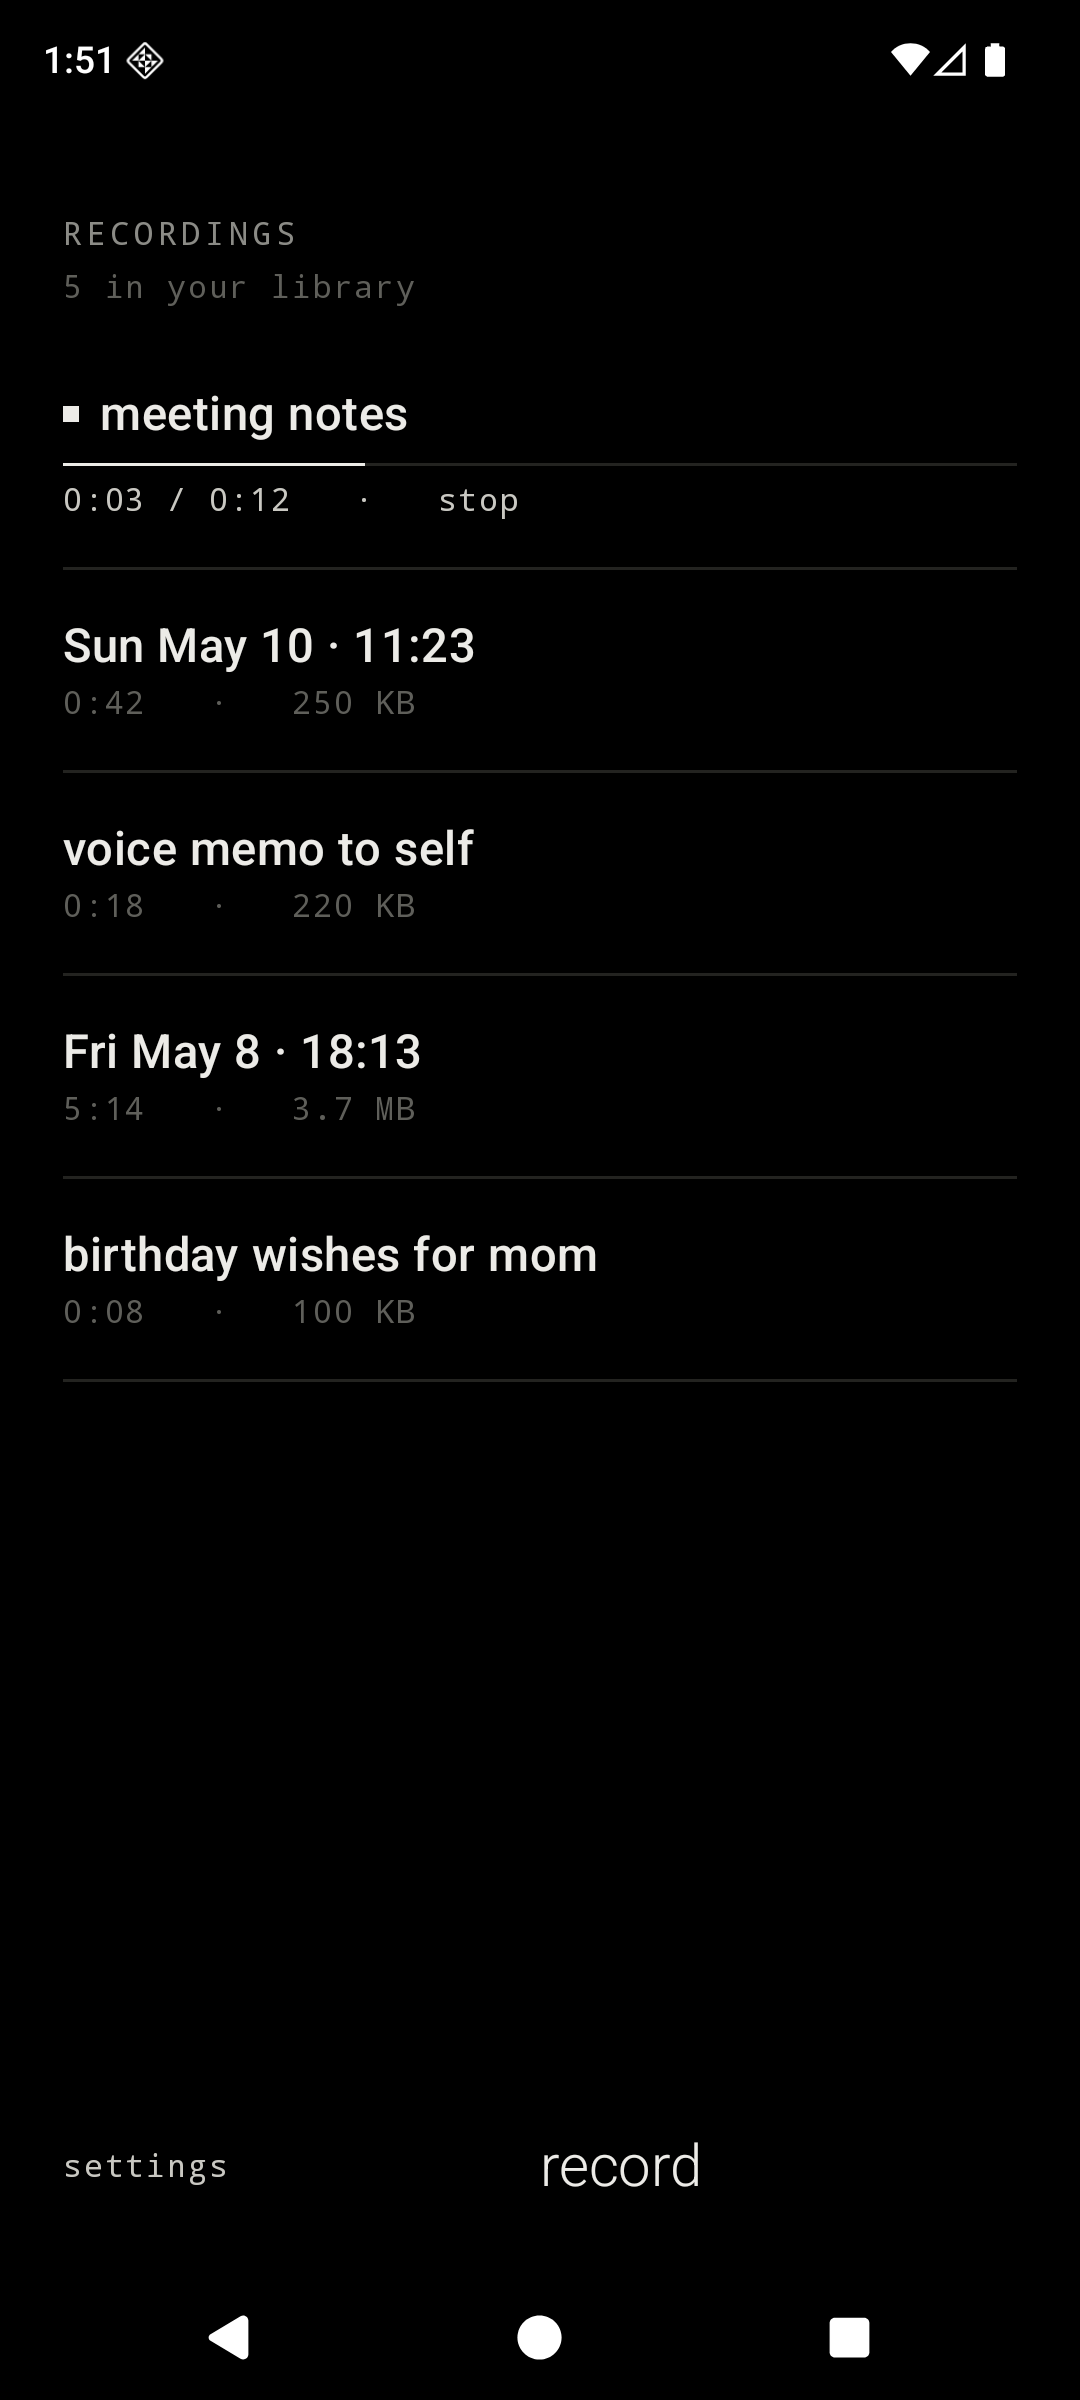
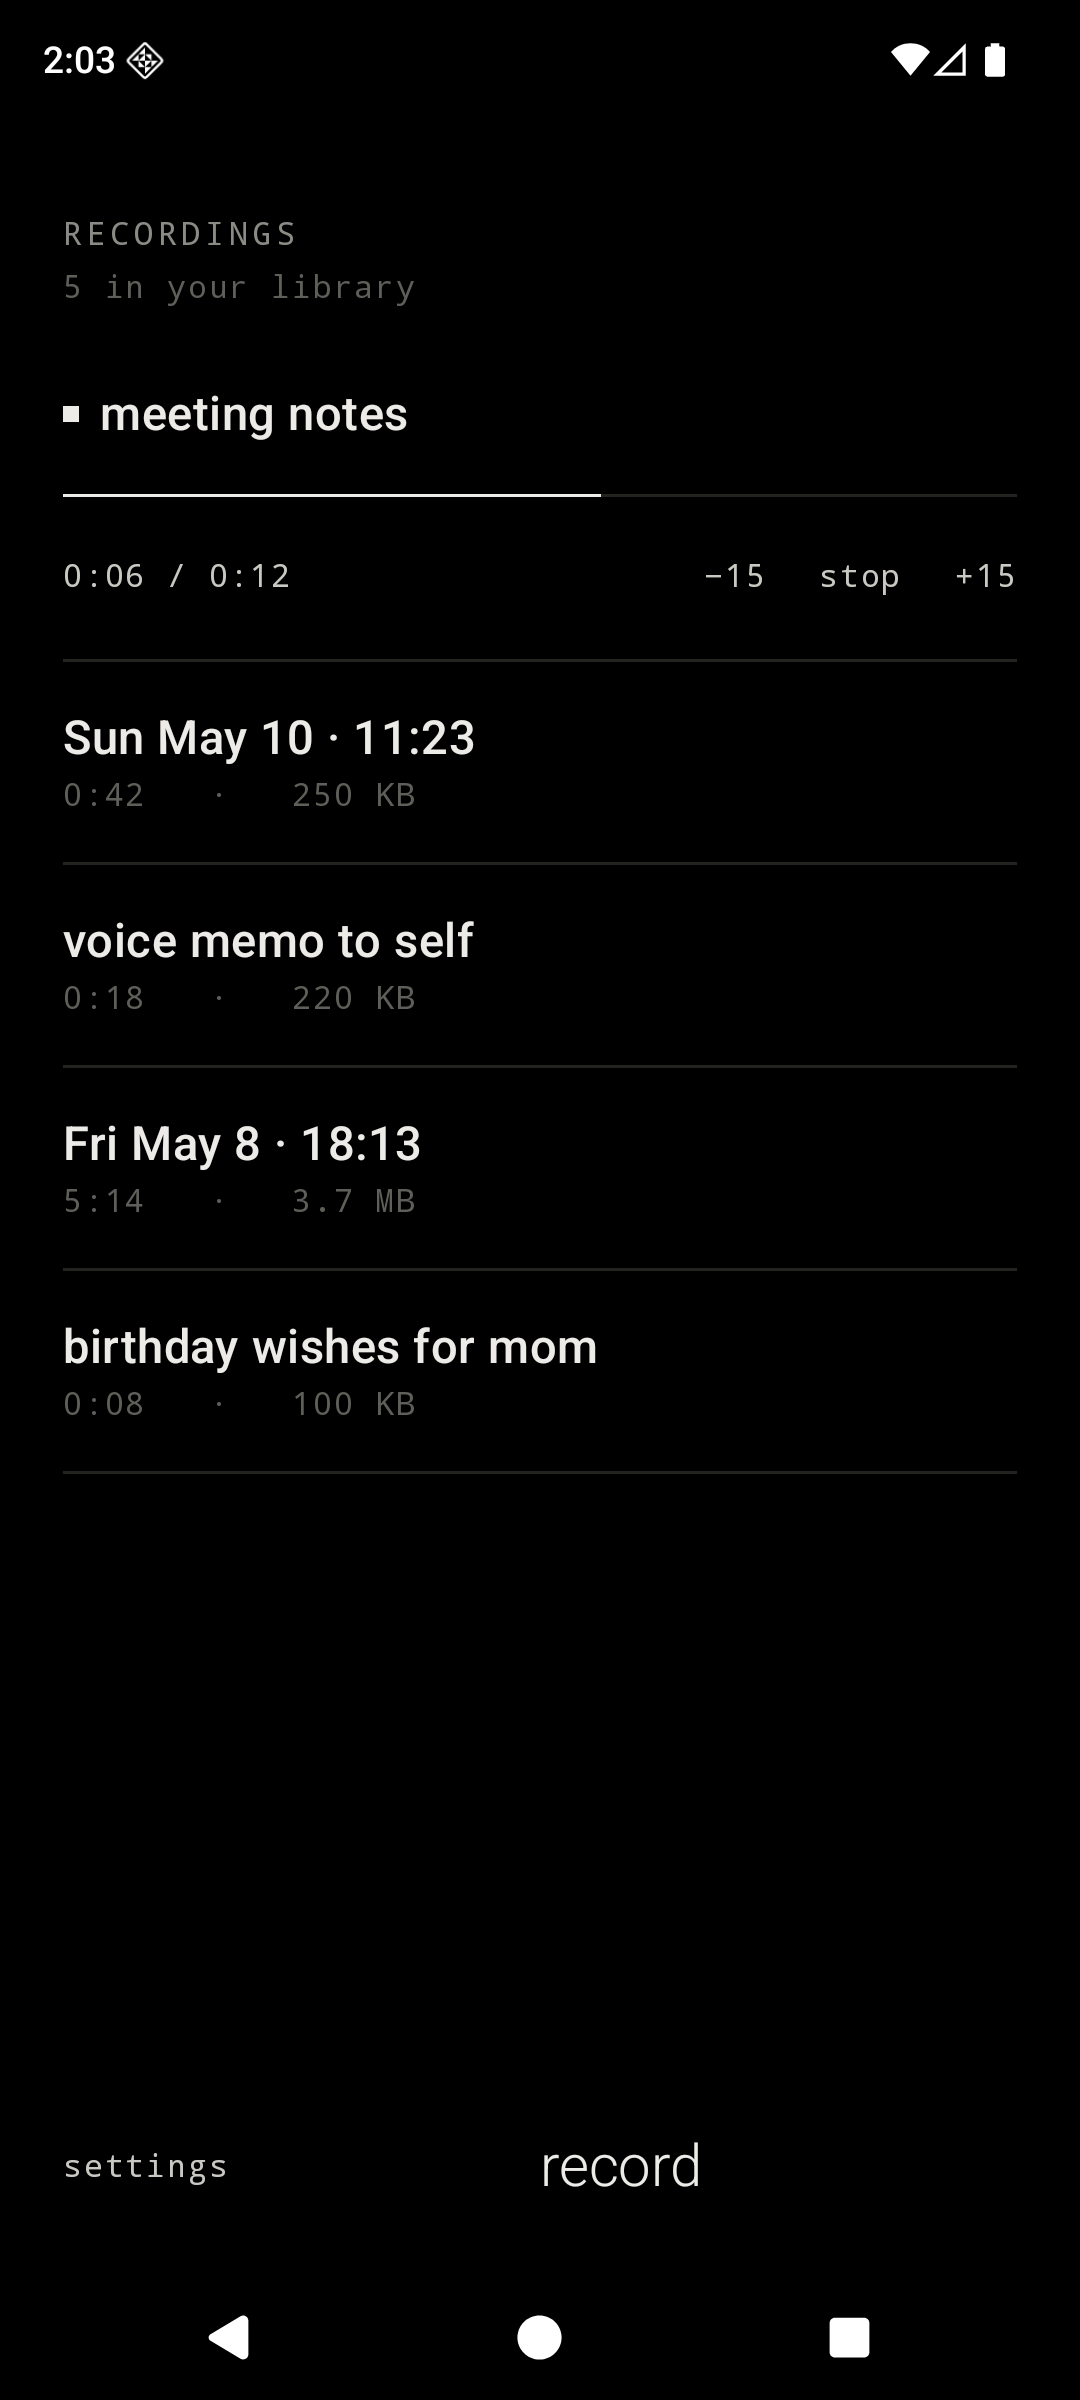
Expand scrubber hit area and add ±15s skip verbs
The 1dp hairline scrubber was its own touch target — too small to land
reliably. Wrap it in a 32dp transparent box that owns the pointerInput,
so tap-to-seek and drag-to-scrub work without sub-pixel precision.

Add −15 / stop / +15 verbs on the playing row's bottom line for quick
scrubbing without the drag. The verbs are pure compositions of the
existing seek and stop callbacks; no new PlayerController surface.

diff --git a/app/src/main/java/dev/chuds/stillvoice/ui/list/RecordingsListScreen.kt b/app/src/main/java/dev/chuds/stillvoice/ui/list/RecordingsListScreen.kt
@@ -108,6 +108,7 @@ fun RecordingsListScreen(
                                 actionTarget = recording.id
                             },
                             onSeek = { fraction -> onSeek(recording, fraction) },
+                            onStop = onStopPlayback,
                         )
                         StillDivider()
                     }
@@ -210,6 +211,7 @@ private fun RecordingRow(
     onTap: () -> Unit,
     onLongPress: () -> Unit,
     onSeek: (Float) -> Unit,
+    onStop: () -> Unit,
 ) {
     val interactionSource = remember { MutableInteractionSource() }
     Column(
@@ -243,7 +245,7 @@ private fun RecordingRow(
         }
 
         if (isPlaying) {
-            Spacer(Modifier.height(8.dp))
+            Spacer(Modifier.height(4.dp))
             val total = playback.durationMs.takeIf { it > 0 }
                 ?: recording.durationMs.takeIf { it > 0 }
                 ?: 1L
@@ -253,12 +255,41 @@ private fun RecordingRow(
                 progress = progress,
                 onSeek = onSeek,
             )
-            Spacer(Modifier.height(6.dp))
-            Text(
-                text = "${formatMmSs(playback.positionMs)} / ${formatMmSs(total)}   ·   stop",
-                style = StillTypography.Caption,
-                color = StillColors.MutedWhite,
-            )
+            Spacer(Modifier.height(2.dp))
+            Row(verticalAlignment = Alignment.CenterVertically) {
+                Text(
+                    text = "${formatMmSs(playback.positionMs)} / ${formatMmSs(total)}",
+                    style = StillTypography.Caption,
+                    color = StillColors.MutedWhite,
+                )
+                Spacer(Modifier.weight(1f))
+                StillVerb(
+                    text = "−15",
+                    onClick = {
+                        val target = (playback.positionMs - 15_000L).coerceAtLeast(0L)
+                        onSeek(target.toFloat() / total.toFloat())
+                    },
+                    style = StillTypography.Caption,
+                    color = StillColors.MutedWhite,
+                )
+                Spacer(Modifier.width(20.dp))
+                StillVerb(
+                    text = "stop",
+                    onClick = onStop,
+                    style = StillTypography.Caption,
+                    color = StillColors.MutedWhite,
+                )
+                Spacer(Modifier.width(20.dp))
+                StillVerb(
+                    text = "+15",
+                    onClick = {
+                        val target = (playback.positionMs + 15_000L).coerceAtMost(total)
+                        onSeek(target.toFloat() / total.toFloat())
+                    },
+                    style = StillTypography.Caption,
+                    color = StillColors.MutedWhite,
+                )
+            }
         } else {
             Spacer(Modifier.height(4.dp))
             Text(

diff --git a/app/src/main/java/dev/chuds/stillvoice/ui/components/StillScrubber.kt b/app/src/main/java/dev/chuds/stillvoice/ui/components/StillScrubber.kt
@@ -23,8 +23,8 @@ import dev.chuds.stillvoice.ui.theme.StillColors
  * 1dp hairline scrubber. SoftWhite filled portion, Hairline runway. No knob,
  * no handle — the filled-vs-unfilled split is the indicator.
  *
- * `progress` is 0..1. `onSeek` is called with the new 0..1 fraction on tap or
- * during a drag.
+ * The visible line is 1dp, but the touch target wraps it in a 32dp tall
+ * transparent box so taps and drags actually land without sub-pixel precision.
  */
 @Composable
 fun StillScrubber(
@@ -38,8 +38,7 @@ fun StillScrubber(
     Box(
         modifier = modifier
             .fillMaxWidth()
-            .height(1.dp)
-            .background(StillColors.Hairline)
+            .height(32.dp)
             .onSizeChanged { widthPx = it.width.toFloat() }
             .pointerInput(Unit) {
                 detectTapGestures { offset ->
@@ -51,13 +50,21 @@ fun StillScrubber(
                     if (widthPx > 0f) onSeek((change.position.x / widthPx).coerceIn(0f, 1f))
                 }
             },
-        contentAlignment = Alignment.CenterStart,
+        contentAlignment = Alignment.Center,
     ) {
         Box(
             modifier = Modifier
-                .fillMaxWidth(clamped)
-                .fillMaxHeight()
-                .background(StillColors.SoftWhite),
-        )
+                .fillMaxWidth()
+                .height(1.dp)
+                .background(StillColors.Hairline),
+            contentAlignment = Alignment.CenterStart,
+        ) {
+            Box(
+                modifier = Modifier
+                    .fillMaxWidth(clamped)
+                    .fillMaxHeight()
+                    .background(StillColors.SoftWhite),
+            )
+        }
     }
 }

diff --git a/README.md b/README.md
@@ -6,7 +6,7 @@
 
 <br>
 
-<img src="docs/screenshots/list.png" width="180" alt="Recordings list — derived label, mm:ss duration and file size per row">&nbsp;<img src="docs/screenshots/recording.png" width="180" alt="Recording — serif mm:ss counter, live size, and a lowercase stop verb">&nbsp;<img src="docs/screenshots/playing.png" width="180" alt="Inline playback — hairline scrubber and 0:43 / 1:12 · stop on a single row">&nbsp;<img src="docs/screenshots/settings.png" width="180" alt="Settings — font preset, format, sample rate, bulk export, privacy posture">
+<img src="docs/screenshots/list.png" width="180" alt="Recordings list — derived label, mm:ss duration and file size per row">&nbsp;<img src="docs/screenshots/recording.png" width="180" alt="Recording — serif mm:ss counter, live size, and a lowercase stop verb">&nbsp;<img src="docs/screenshots/playing.png" width="180" alt="Inline playback — draggable hairline scrubber with −15 / stop / +15 verbs and elapsed-of-total time">&nbsp;<img src="docs/screenshots/settings.png" width="180" alt="Settings — font preset, format, sample rate, bulk export, privacy posture">
 
 <br>
 
@@ -21,7 +21,7 @@ It declares no internet permission. It ships no analytics. It depends on neither
 ## What Still Voice does
 
 - A reverse-chronological list of recordings as the home screen, each row showing **derived label, `mm:ss` duration, and file size**.
-- Tap a row to **play it inline**: a 1dp hairline scrubber animates across the row, a small filled square marks the playing row, and the bottom caption reads `0:43 / 1:12  ·  stop`. Drag the scrubber to seek.
+- Tap a row to **play it inline**: a 1dp hairline scrubber animates across the row, a small filled square marks the playing row, and the bottom row reads `0:06 / 0:12   −15   stop   +15`. Tap or drag the scrubber to seek; tap `−15` / `+15` to jump fifteen seconds.
 - A **recording bar** pinned to the bottom of the list. Idle: a single lowercase `record` verb. Recording: a serif `mm:ss` counter, live file size, and a `stop` verb. The counter ticks at 1Hz, not 60Hz.
 - A **foreground service** keeps the recording alive while the screen is off or the app is backgrounded, with a sticky notification showing the live elapsed time and a `stop` action. It is the only notification this app ever posts.
 - **Long-press a row** for an inline action sheet: `rename`, `share`, `export`, `delete`. Delete asks for a second tap to confirm.